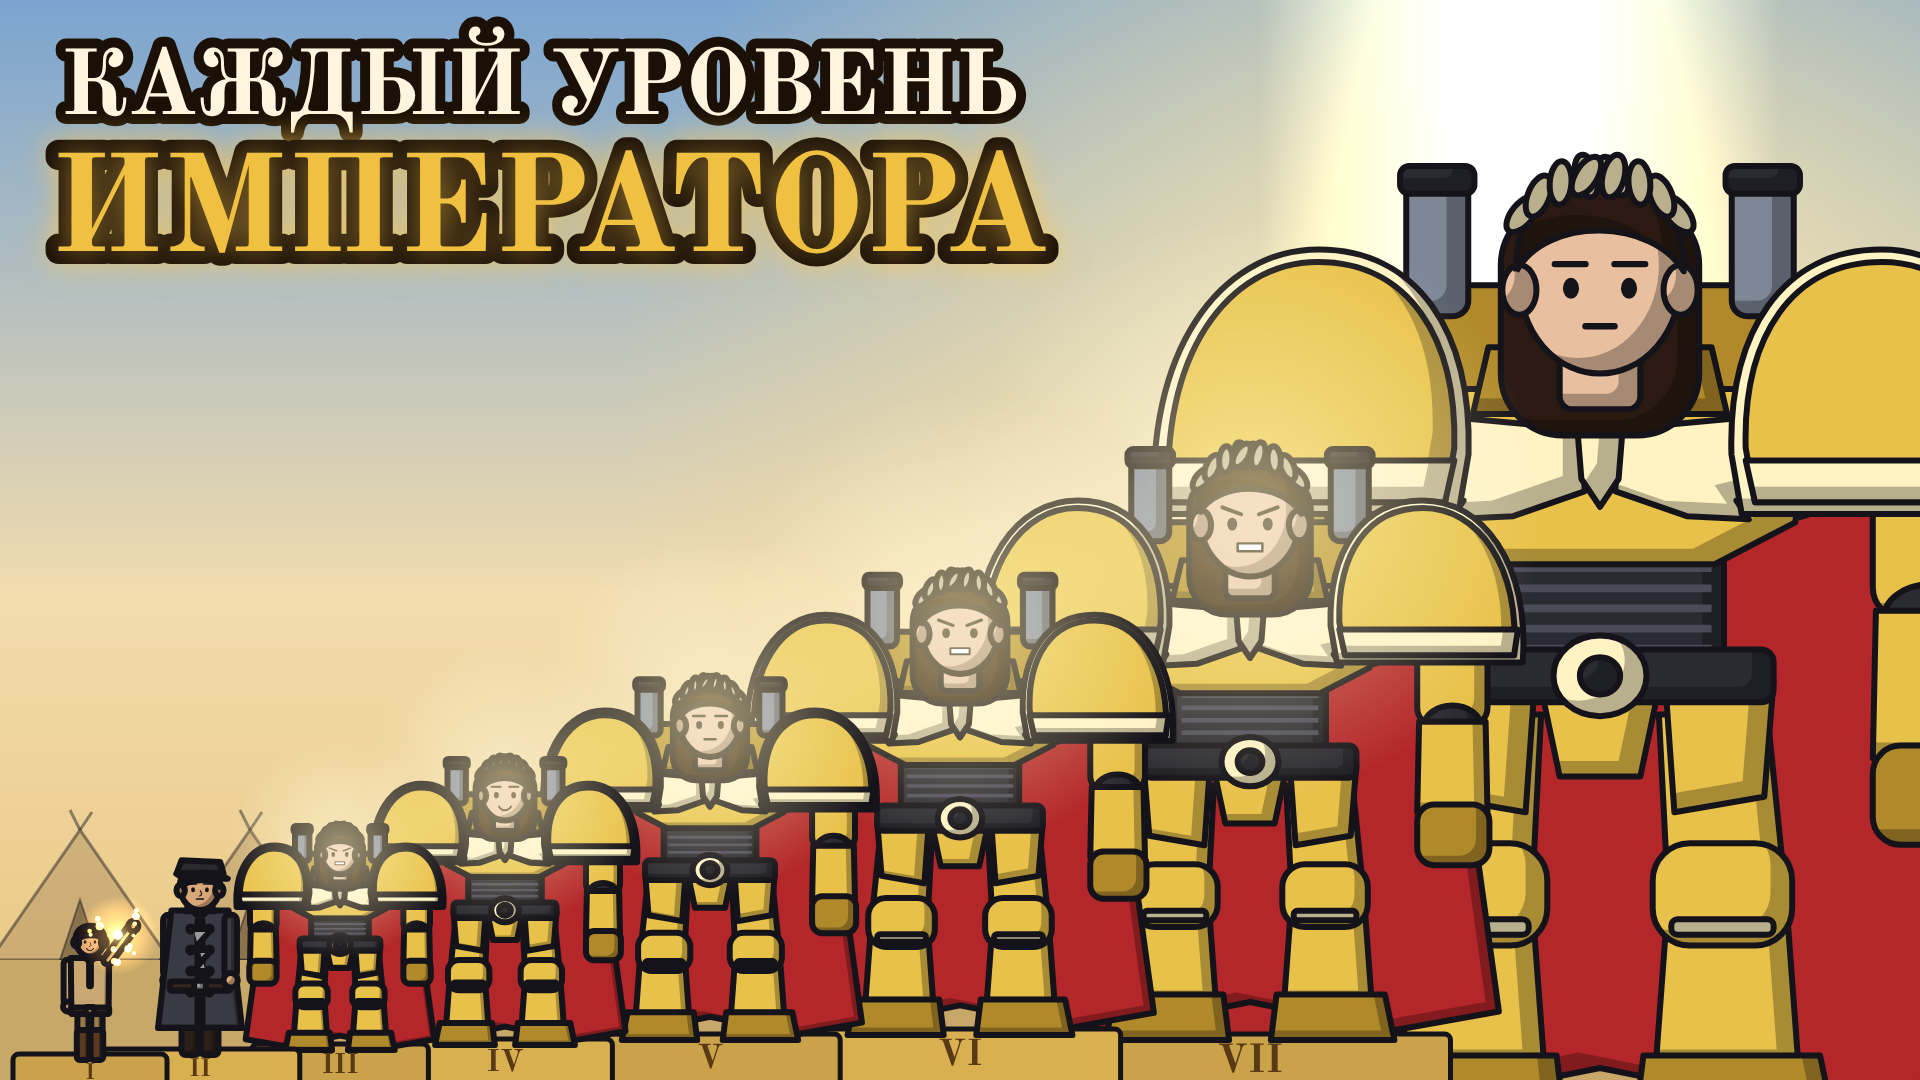
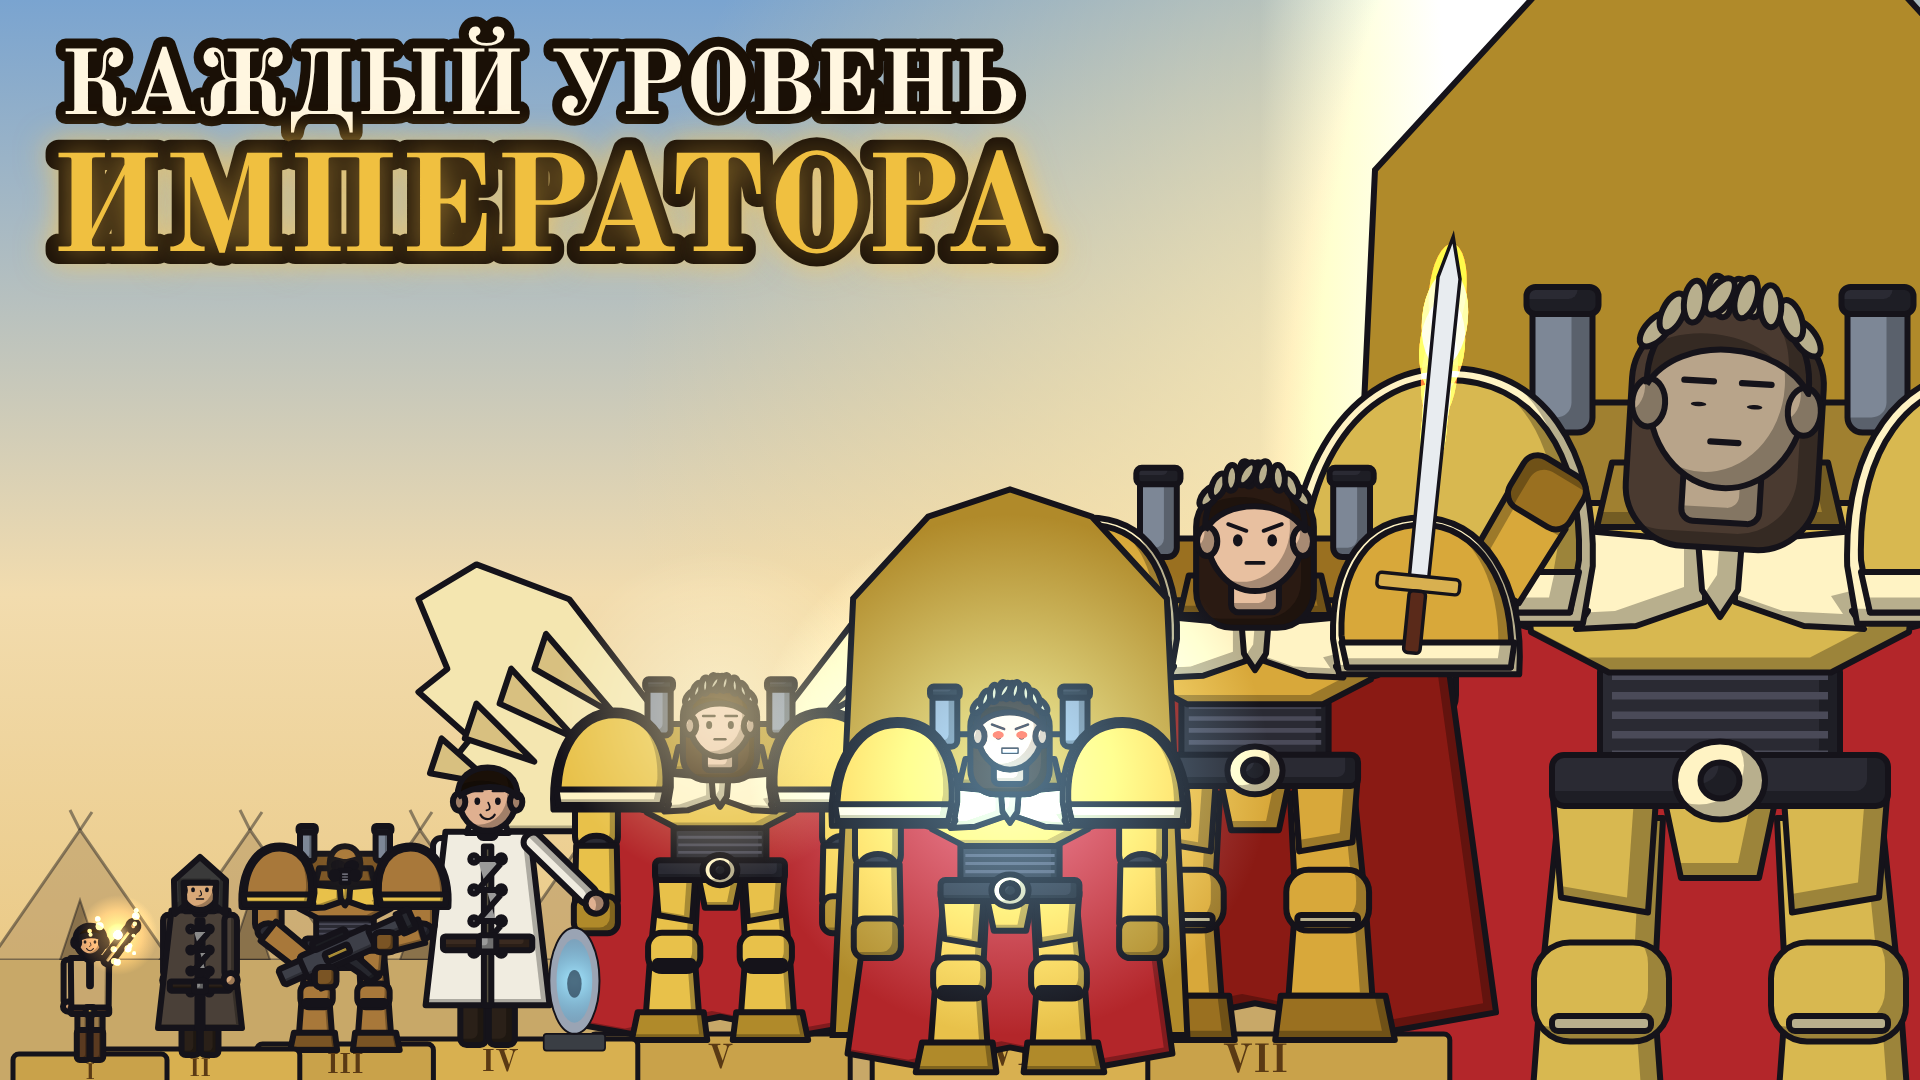
Emperor thumbnail: a distinct look for every level
Claude-Session: https://claude.ai/code/session_01VCiShXH83VhpHK8tEUo9zn

diff --git a/emperor/thumb.js b/emperor/thumb.js
@@ -10,18 +10,26 @@ function drawThumb(ctx) {
   ctx.fillStyle = '#c8a868'; ctx.fillRect(0, 960, W, 120);
   const EMP = (c, x2, y2, s2, p) => emperor(c, x2, y2, s2, p);
   // [x, feetY, scale, draw]
+  const ER = (o) => rig('marine', { plain: true, weapon: 'none', helmet: 'off', hair: 'long', cape: true, laurel: true, ...o });
+  const BRONZE = pal(EMPEROR, { armor: '#a8783a', armorDark: '#7a5424', trim: '#e8c14a', rim: '#e8c14a', helm: '#a8783a', lens: '#ffd060', cape: '#5a2a1a' });
+  const WINGED = pal(EMPEROR, { wing: '#f4e6b0', wingShade: '#d8c080' });
+  const SEER = pal(EMPEROR, { eyeIris: '#7fe0ff' });
+  const WAR = pal(EMPEROR, { armor: '#d8a83a', armorDark: '#9a7020', cape: '#8a1a14' });
+  const GOD = pal(EMPEROR, { skin: '#b8a48a', hair: '#4a3a30', armor: '#d8b850', armorDark: '#a08030' });
+  const throne = (x, y, s) => { shape(ctx, [[x - 260 * s, y], [x - 230 * s, y - 640 * s], [x - 120 * s, y - 760 * s], [x, y - 800 * s], [x + 120 * s, y - 760 * s], [x + 230 * s, y - 640 * s], [x + 260 * s, y]], '#b08a2a', 6); rect(ctx, x - 200 * s, y - 330 * s, 400 * s, 330 * s, '#8a6a20', 20 * s, 6); };
+  // [x, feetY, scale, draw]: each level looks different
   const L = [
     [90, 1060, 0.3, (x, y, s) => { boy(ctx, x, y, s, { expr: 'happy', armR: -2.5 }); goldLight(ctx, x + 28, y - 125, 10, 3, 1); }],
-    [200, 1055, 0.42, (x, y, s) => wanderer(ctx, 'sage', x, y, s, { expr: 'neutral' })],
-    [340, 1050, 0.36, (x, y, s) => EMP(ctx, x, y, s, { expr: 'grit' })],
-    [505, 1045, 0.46, (x, y, s) => EMP(ctx, x, y, s, { expr: 'happy' })],
-    [710, 1040, 0.58, (x, y, s) => EMP(ctx, x, y, s, { expr: 'neutral' })],
-    [960, 1035, 0.74, (x, y, s) => EMP(ctx, x, y, s, { expr: 'grit' })],
-    [1250, 1040, 0.95, (x, y, s) => EMP(ctx, x, y, s, { expr: 'grit' })],
-    [1600, 1130, 1.55, (x, y, s) => drawRig(ctx, rig('marine', { plain: true, weapon: 'none', helmet: 'off', hair: 'long', cape: true, laurel: true }), x, y, s, { expr: 'neutral' }, EMPEROR)],
+    [200, 1055, 0.42, (x, y, s) => wanderer(ctx, 'barb', x, y, s, { expr: 'neutral' })],
+    [345, 1050, 0.36, (x, y, s) => drawRig(ctx, rig('marine', { plain: true, weapon: 'bolter' }), x, y, s, { expr: 'grit' }, BRONZE)],
+    [500, 1045, 0.62, (x, y, s) => { person(ctx, x - 20 * s, y, s, { expr: 'happy', armR: -0.8 }, { coat: true, hat: 'none' }, pal(EP.sage, { coat: '#f0ece0', shirt: '#f0ece0', pants: '#d8d0c0', hair: '#1a1008' })); capsulePod(ctx, x + 120 * s, y, 0.45 * s, 0, 3, false); }],
+    [720, 1040, 0.58, (x, y, s) => { drawRig(ctx, ER({ wings: true }), x, y, s, { expr: 'neutral' }, WINGED); haloGlow(ctx, x, y - 560 * s, 130 * s); }],
+    [1010, 1035, 0.62, (x, y, s) => { throne(x, y, s * 1.1); drawRig(ctx, ER({ eyeGlow: true, glowEyes: true }), x, y, s, { bob: 60, expr: 'grit' }, SEER); ctx.save(); ctx.globalCompositeOperation = 'lighter'; const g2 = ctx.createRadialGradient(x, y - 420 * s, 10, x, y - 420 * s, 420 * s); g2.addColorStop(0, 'rgba(140,220,255,0.45)'); g2.addColorStop(1, 'rgba(140,220,255,0)'); ctx.fillStyle = g2; ctx.fillRect(x - 420 * s, y - 840 * s, 840 * s, 840 * s); ctx.restore(); }],
+    [1255, 1040, 0.92, (x, y, s) => { drawRig(ctx, ER({}), x, y, s, { expr: 'angry', armR: -2.6 }, WAR); sword(ctx, x + 175 * s, y - 470 * s, 0.75 * s, 0.1, 1, 3); }],
+    [1720, 1130, 1.5, (x, y, s) => { beam(ctx, x, y - 560 * s, 300, 900, 0.6); throne(x, y, s); drawRig(ctx, ER({}), x, y, s, { bob: 60, blink: 1, head: 0.06, expr: 'neutral' }, GOD); }],
   ];
   // biggest at the back, smallest in front
-  for (let i = L.length - 1; i >= 0; i--) {
+  for (const i of [7, 6, 4, 5, 3, 2, 1, 0]) {
     const [x, y, s, fn] = L[i];
     if (i < 7) { const w = 380 * s + 40; rect(ctx, x - w / 2, y - 6, w, 200, i % 2 ? '#d8b050' : '#c9a24a', 6, 5); ctx.save(); ctx.fillStyle = '#5a3a14'; ctx.font = `700 ${Math.round(22 + i * 3)}px "Old Standard TT"`; ctx.textAlign = 'center'; ctx.textBaseline = 'top'; ctx.fillText(ROMAN8[i], x, y + 2); ctx.restore(); }
     fn(x, y, s);
